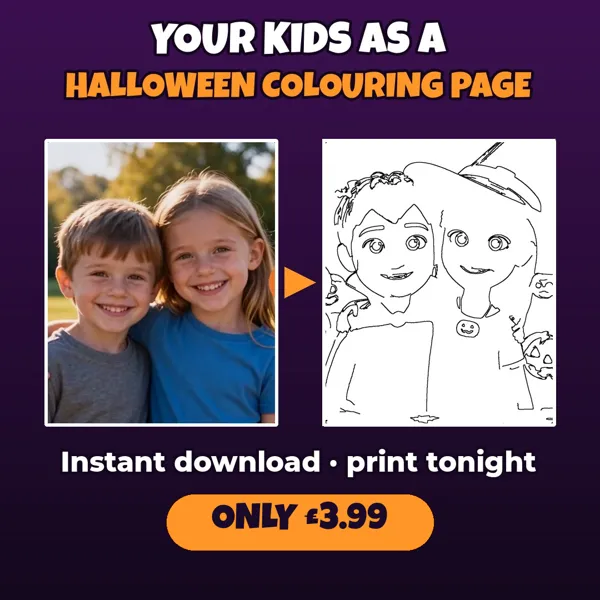
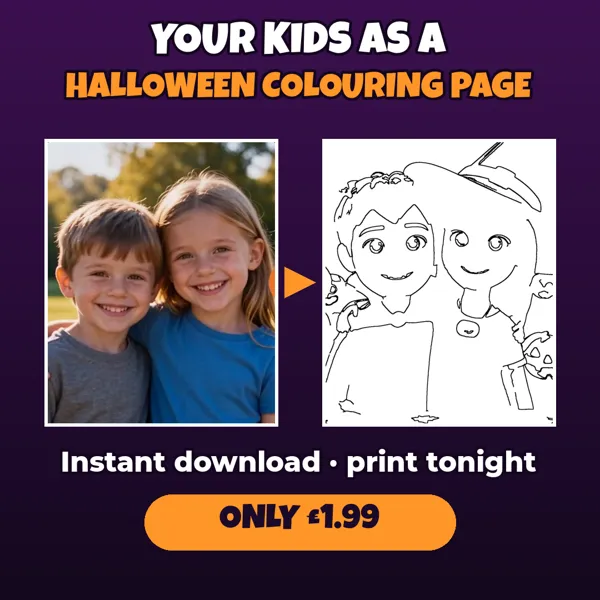
Printables: £1.99 / $2.99 Halloween special, bolder example art, new promo image
Claude-Session: https://claude.ai/code/session_01HbW6DW9iCZ4LUUMQkhEPyg

diff --git a/us/printables.html b/us/printables.html
@@ -12,10 +12,10 @@
 <meta charset="UTF-8">
 <meta name="viewport" content="width=device-width, initial-scale=1.0">
 <title>Your Kids as a Halloween Colouring Page | Instant Download | ONJJEM</title>
-<meta name="description" content="Upload a photo and we turn your kids, family or pets into a Halloween colouring page in 30 seconds. Instant download, print tonight. £3.99.">
+<meta name="description" content="Upload a photo and we turn your kids, family or pets into a Halloween colouring page in 30 seconds. Instant download, print tonight. £1.99.">
 <link rel="canonical" href="https://onjjem.com/us/printables">
 <meta property="og:title" content="🎃 Your kids as a Halloween colouring page, instant download">
-<meta property="og:description" content="Upload a photo, see it free, download and print tonight. £3.99.">
+<meta property="og:description" content="Upload a photo, see it free, download and print tonight. £1.99.">
 <meta property="og:image" content="https://onjjem.com/pr-promo.jpg">
 <style>
   :root{--o:#FF962A;--p:#2a0d3d;--bg:#14071f;--card:#24102f;--txt:#FBEFFF;--mut:rgba(251,239,255,.72)}
@@ -71,7 +71,7 @@
 <body>
 <div class="w">
   <a href="/" class="back" id="backLink">&larr; ONJJEM shop</a>
-  <div class="kick">🎃 NEW · INSTANT DOWNLOAD</div>
+  <div class="kick">🎃 HALLOWEEN SPECIAL · INSTANT DOWNLOAD</div>
   <h1>Your kids as a <span>Halloween colouring page</span> 🖍</h1>
   <p class="sub">Upload a photo. In 30 seconds we draw your kids, family or pets in cute Halloween costumes as a colouring page. Download it, print it, and watch their faces light up when they colour <b>themselves</b>.</p>
 
@@ -137,8 +137,8 @@
 <script>
 (function(){
   var US = /^\/us\//.test(location.pathname);
-  var P = US ? { coloring: "$4.99", cartoon: "$3.99" } : { coloring: "£3.99", cartoon: "£2.99" };
-  var cur = US ? "USD" : "GBP", val = { coloring: US ? 4.99 : 3.99, cartoon: US ? 3.99 : 2.99 };
+  var P = US ? { coloring: "$2.99", cartoon: "$1.99" } : { coloring: "£1.99", cartoon: "£1.49" };
+  var cur = US ? "USD" : "GBP", val = { coloring: US ? 2.99 : 1.99, cartoon: US ? 1.99 : 1.49 };
   var word = US ? "coloring" : "colouring";
   if (US) {
     document.title = "Your Kids as a Halloween Coloring Page | Instant Download | ONJJEM";

diff --git a/printables.html b/printables.html
@@ -12,10 +12,10 @@
 <meta charset="UTF-8">
 <meta name="viewport" content="width=device-width, initial-scale=1.0">
 <title>Your Kids as a Halloween Colouring Page | Instant Download | ONJJEM</title>
-<meta name="description" content="Upload a photo and we turn your kids, family or pets into a Halloween colouring page in 30 seconds. Instant download, print tonight. £3.99.">
+<meta name="description" content="Upload a photo and we turn your kids, family or pets into a Halloween colouring page in 30 seconds. Instant download, print tonight. £1.99.">
 <link rel="canonical" href="https://onjjem.com/printables">
 <meta property="og:title" content="🎃 Your kids as a Halloween colouring page, instant download">
-<meta property="og:description" content="Upload a photo, see it free, download and print tonight. £3.99.">
+<meta property="og:description" content="Upload a photo, see it free, download and print tonight. £1.99.">
 <meta property="og:image" content="https://onjjem.com/pr-promo.jpg">
 <style>
   :root{--o:#FF962A;--p:#2a0d3d;--bg:#14071f;--card:#24102f;--txt:#FBEFFF;--mut:rgba(251,239,255,.72)}
@@ -71,7 +71,7 @@
 <body>
 <div class="w">
   <a href="/" class="back" id="backLink">&larr; ONJJEM shop</a>
-  <div class="kick">🎃 NEW · INSTANT DOWNLOAD</div>
+  <div class="kick">🎃 HALLOWEEN SPECIAL · INSTANT DOWNLOAD</div>
   <h1>Your kids as a <span>Halloween colouring page</span> 🖍</h1>
   <p class="sub">Upload a photo. In 30 seconds we draw your kids, family or pets in cute Halloween costumes as a colouring page. Download it, print it, and watch their faces light up when they colour <b>themselves</b>.</p>
 
@@ -137,8 +137,8 @@
 <script>
 (function(){
   var US = /^\/us\//.test(location.pathname);
-  var P = US ? { coloring: "$4.99", cartoon: "$3.99" } : { coloring: "£3.99", cartoon: "£2.99" };
-  var cur = US ? "USD" : "GBP", val = { coloring: US ? 4.99 : 3.99, cartoon: US ? 3.99 : 2.99 };
+  var P = US ? { coloring: "$2.99", cartoon: "$1.99" } : { coloring: "£1.99", cartoon: "£1.49" };
+  var cur = US ? "USD" : "GBP", val = { coloring: US ? 2.99 : 1.99, cartoon: US ? 1.99 : 1.49 };
   var word = US ? "coloring" : "colouring";
   if (US) {
     document.title = "Your Kids as a Halloween Coloring Page | Instant Download | ONJJEM";

diff --git a/printables-promo.js b/printables-promo.js
@@ -4,7 +4,7 @@
   if (new Date() >= new Date("2026-11-01T00:00:00Z")) return;
   if (/printables/.test(location.pathname)) return;
   var US = /^\/us(\/|$)/.test(location.pathname) || /region=us/.test(location.search);
-  var href = US ? "/us/printables" : "/printables", price = US ? "$4.99" : "£3.99", w = US ? "coloring" : "colouring";
+  var href = US ? "/us/printables" : "/printables", price = US ? "$2.99" : "£1.99", w = US ? "coloring" : "colouring";
   var ga = function(a){ try { gtag("event", "printable_promo", { action: a }); } catch(e){} };
   var css = document.createElement("style");
   css.textContent = ".prp{position:fixed;left:12px;right:12px;bottom:12px;z-index:9999;max-width:440px;margin:0 auto;background:linear-gradient(160deg,#4a1466,#1e0a2c);color:#fff;border-radius:20px;box-shadow:0 18px 50px rgba(0,0,0,.55);border:2px solid #FF962A;font-family:system-ui,-apple-system,sans-serif;transform:translateY(130%);transition:transform .45s cubic-bezier(.2,1.2,.4,1);overflow:hidden}.prp.in{transform:none}.prp .pi{display:flex;gap:12px;padding:14px 14px 12px}.prp img{width:104px;height:104px;object-fit:cover;border-radius:12px;flex:none;background:#fff}.prp .k{display:inline-block;background:#FF962A;color:#2a0d3d;font-weight:900;font-size:11px;padding:3px 9px;border-radius:12px;letter-spacing:.05em}.prp h3{margin:6px 0 4px;font-size:18px;line-height:1.2}.prp p{margin:0;font-size:13px;opacity:.85;line-height:1.35}.prp a.b{display:block;margin:0 14px 14px;text-align:center;background:linear-gradient(90deg,#E8287F,#FF8A1C);color:#fff;font-weight:900;font-size:17px;padding:13px;border-radius:14px;text-decoration:none}.prp .x{position:absolute;top:6px;right:8px;background:rgba(0,0,0,.25);border:0;color:#fff;font-size:20px;width:30px;height:30px;border-radius:50%;cursor:pointer;line-height:30px;padding:0}.prp .em{font-size:20px;display:inline-block;animation:prw 1s ease-in-out infinite alternate}@keyframes prw{to{transform:rotate(14deg) scale(1.15)}}";

diff --git a/us/index.html b/us/index.html
@@ -59,7 +59,7 @@
     <div class="home-top-text">
       <h1>Turn your photo into a cartoon, FREE ✨</h1>
       <p>See your kids, family or pet as a cartoon in seconds. No sign-up. Love it? Put it on a blanket, tapestry, canvas or mug. Made in the USA, free shipping.</p>
-      <a href="/us/printables" style="display:flex;gap:10px;align-items:center;margin:0 0 12px;padding:10px 12px;border-radius:14px;background:linear-gradient(90deg,#E8287F,#FF8A1C);color:#fff;text-decoration:none;font-weight:800" onclick="try{gtag('event','printable_promo',{action:'us_hero'})}catch(e){}"><span style="font-size:26px">🖍</span><span>NEW: Your kids as a Halloween coloring page. Instant download, print tonight! $4.99 →</span></a>
+      <a href="/us/printables" style="display:flex;gap:10px;align-items:center;margin:0 0 12px;padding:10px 12px;border-radius:14px;background:linear-gradient(90deg,#E8287F,#FF8A1C);color:#fff;text-decoration:none;font-weight:800" onclick="try{gtag('event','printable_promo',{action:'us_hero'})}catch(e){}"><span style="font-size:26px">🖍</span><span>NEW: Your kids as a Halloween coloring page. Instant download, print tonight! Only $2.99 →</span></a>
       <a class="btn home-btn" href="/cartoon?region=us" onclick="try{gtag('event','us_hero_cartoon',{where:'button'})}catch(e){}">🎨 Make my free cartoon</a> <a class="btn home-btn" href="#cat-home" style="margin-top:.5rem;background:transparent;border:1px solid currentColor">Shop blankets &amp; home</a>
       <div class="rv-strip"></div>
     </div>
@@ -230,6 +230,6 @@ var rv = document.getElementById("reviews"); if (rv) rv.outerHTML = ONJJEM_revie
 </script>
 <script src="/halloween-decor.js?v=20261021a" defer></script>
 <script src="/reviews-strip.js?v=20261011b" defer></script>
-<script src="/printables-promo.js?v=1" defer></script>
+<script src="/printables-promo.js?v=2" defer></script>
 </body>
 </html>

diff --git a/index.html b/index.html
@@ -78,7 +78,7 @@
   <section class="wrap" id="shop">
     <h2 class="lx-shop">What would you like to make?</h2>
     <div class="rm-list" id="rmList">
-      <a class="rm-row rm-new" href="/printables"><span class="rm-ico">🖍</span><span class="rm-txt"><b>Halloween colouring page of your kids <em class="lx-new">NEW</em></b><small>Instant download · print tonight</small></span><span class="rm-p">£3.99 ›</span></a>
+      <a class="rm-row rm-new" href="/printables"><span class="rm-ico">🖍</span><span class="rm-txt"><b>Halloween colouring page of your kids <em class="lx-new">NEW</em></b><small>Instant download · print tonight</small></span><span class="rm-p">£1.99 ›</span></a>
       <a class="rm-row rm-new" href="/#cat-halloween" data-sec="cat-halloween"><span class="rm-ico">🎃</span><span class="rm-txt"><b>Halloween</b><small>Cartoon packs, trick-or-treat bags · until 31 Oct</small></span><span class="rm-p">from £5.99 ›</span></a>
       <a class="rm-row rm-new" href="/calendar"><span class="rm-ico">📅</span><span class="rm-txt"><b>2027 Photo Calendar <em class="lx-new">NEW</em></b><small>For Jan–Dec 2027 · 12 of your photos</small></span><span class="rm-p">£24.99 ›</span></a>
       <a class="rm-row" href="/#cat-living" data-sec="cat-living"><span class="rm-ico">🛋</span><span class="rm-txt"><b>Living Room &amp; Bedroom</b><small>Throws, cushions, towels, frames</small></span><span class="rm-p">from £22.99 ›</span></a>
@@ -284,6 +284,6 @@ var rv = document.getElementById("reviews"); if (rv) rv.outerHTML = ONJJEM_revie
 </script>
 <script src="/halloween-decor.js?v=20261021a" defer></script>
 <script src="/reviews-strip.js?v=20261011b" defer></script>
-<script src="/printables-promo.js?v=1" defer></script>
+<script src="/printables-promo.js?v=2" defer></script>
 </body>
 </html>

diff --git a/halloween.html b/halloween.html
@@ -77,6 +77,6 @@ window.PAGE = {
 <script src="/cartoonify-shared.js?v=20261016g"></script>
 <script src="/halloween-decor.js?v=20261021a" defer></script>
 <script src="/giveaway-banner.js?v=20261016g" defer></script>
-<script src="/printables-promo.js?v=1" defer></script>
+<script src="/printables-promo.js?v=2" defer></script>
 </body>
 </html>

diff --git a/us/halloween.html b/us/halloween.html
@@ -85,6 +85,6 @@ window.PAGE = {
 <script src="/cartoonify-shared.js?v=20261016g"></script>
 <script src="/halloween-decor.js?v=20261021a" defer></script>
 <script src="/giveaway-banner.js?v=20261016g" defer></script>
-<script src="/printables-promo.js?v=1" defer></script>
+<script src="/printables-promo.js?v=2" defer></script>
 </body>
 </html>

diff --git a/kids-clothing.html b/kids-clothing.html
@@ -64,6 +64,6 @@
 document.getElementById("hdr").innerHTML = ONJJEM_headerHtml();
 document.getElementById("ftr").innerHTML = ONJJEM_footerHtml();
 </script>
-<script src="/printables-promo.js?v=1" defer></script>
+<script src="/printables-promo.js?v=2" defer></script>
 </body>
 </html>

diff --git a/cartoon.html b/cartoon.html
@@ -203,6 +203,6 @@
 </script>
 <script src="/reviews-strip.js?v=20261011b" defer></script>
 <script src="/giveaway-banner.js?v=20261016g" defer></script>
-<script src="/printables-promo.js?v=1" defer></script>
+<script src="/printables-promo.js?v=2" defer></script>
 </body>
 </html>

diff --git a/blanket.html b/blanket.html
@@ -65,6 +65,6 @@ window.PAGE = {
 </script>
 <script src="/landing.js?v=20261021b"></script>
 <script src="/cartoonify-shared.js?v=20261016g"></script>
-<script src="/printables-promo.js?v=1" defer></script>
+<script src="/printables-promo.js?v=2" defer></script>
 </body>
 </html>

diff --git a/canvas.html b/canvas.html
@@ -64,6 +64,6 @@ window.PAGE = {
 </script>
 <script src="/landing.js?v=20261021b"></script>
 <script src="/cartoonify-shared.js?v=20261016g"></script>
-<script src="/printables-promo.js?v=1" defer></script>
+<script src="/printables-promo.js?v=2" defer></script>
 </body>
 </html>

diff --git a/christmas.html b/christmas.html
@@ -67,6 +67,6 @@ window.PAGE = {
 </script>
 <script src="/landing.js?v=20261021b"></script>
 <script src="/cartoonify-shared.js?v=20261016g"></script>
-<script src="/printables-promo.js?v=1" defer></script>
+<script src="/printables-promo.js?v=2" defer></script>
 </body>
 </html>
